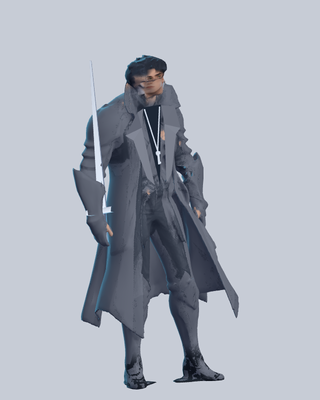
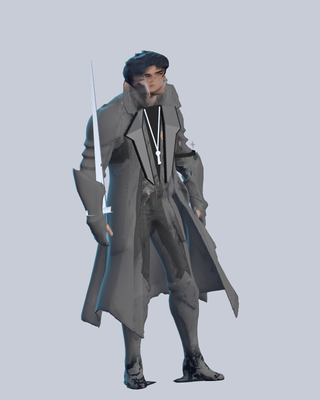
棋盘棋子 P1c：圆柱脸贴花+棋盘简化脸、头×1.1、猎人毛领/额环/冰甲、翻领厚度边线+臂章、山贼自带兜帽脸 (#310)

Changed region(s): [[0.375, 0.12, 0.625, 0.48], [0.3125, 0.24, 0.375, 0.27]]

diff --git a/docs/design/pawn-redesign-opus.md b/docs/design/pawn-redesign-opus.md
@@ -711,3 +711,4 @@ void fragment() {
 - P1b：立绘脸贴花。每个单位用自己的立绘（队长=领袖立绘，猎人=`v8_bust_*_hunter`，山贼=`bandit.webp`）按肤色行直方图裁出脸（颧骨行定位），羽化椭圆后在 bind-pose 空间（CUSTOM0）平面投射到头部正面，跟随骨骼。运行时生成，不新增贴图文件。
 - 队长外套：程序化西装翻领 + 黑色内搭 V 区 + 钥匙项链（BoneAttachment3D 挂 chest）。
 - 棋盘：我方 exposure 1.22 / 阴影底 0.64，敌方 1.12；衣物明暗取 mip3 粗采样，去掉细碎黑点。
+- P1c：脸贴花改为绕头轴的圆柱投影 + 角度遮罩（不依赖重拓扑头部的噪声法线），贴花区域光照压平；棋盘尺度用粗 mip 的高对比简化脸（眉/眼/发形）。头骨 ×1.10。山贼不贴立绘脸，头部保留模型自带手绘贴图（兜帽阴影）。猎人加白毛领、银额环、冰甲肩甲；队长翻领加厚度与边线、左袖臂章+银星；领袖衣色中性灰。
